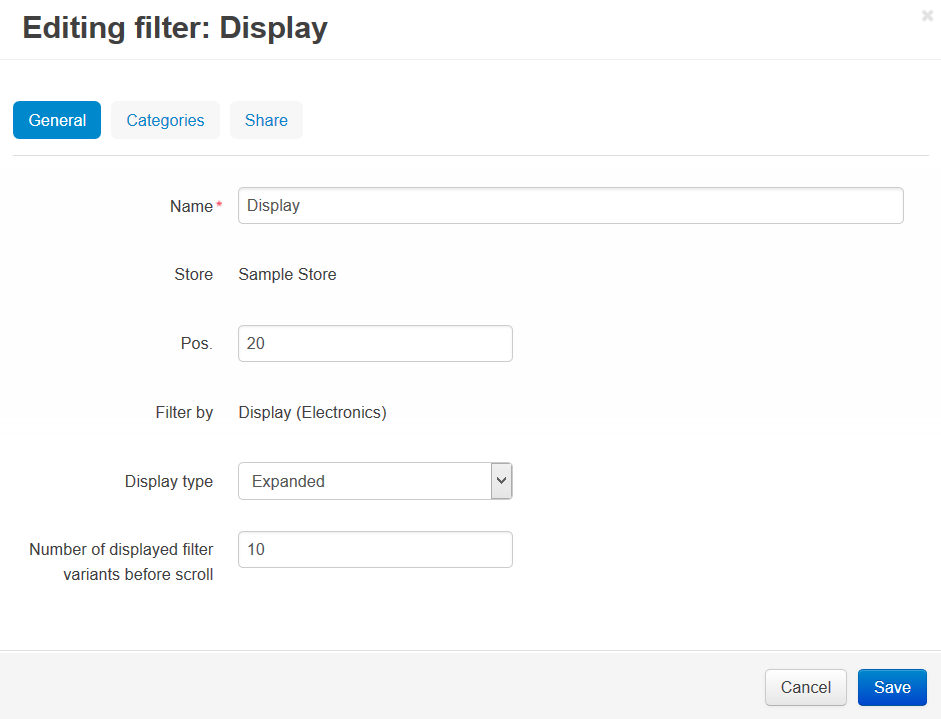
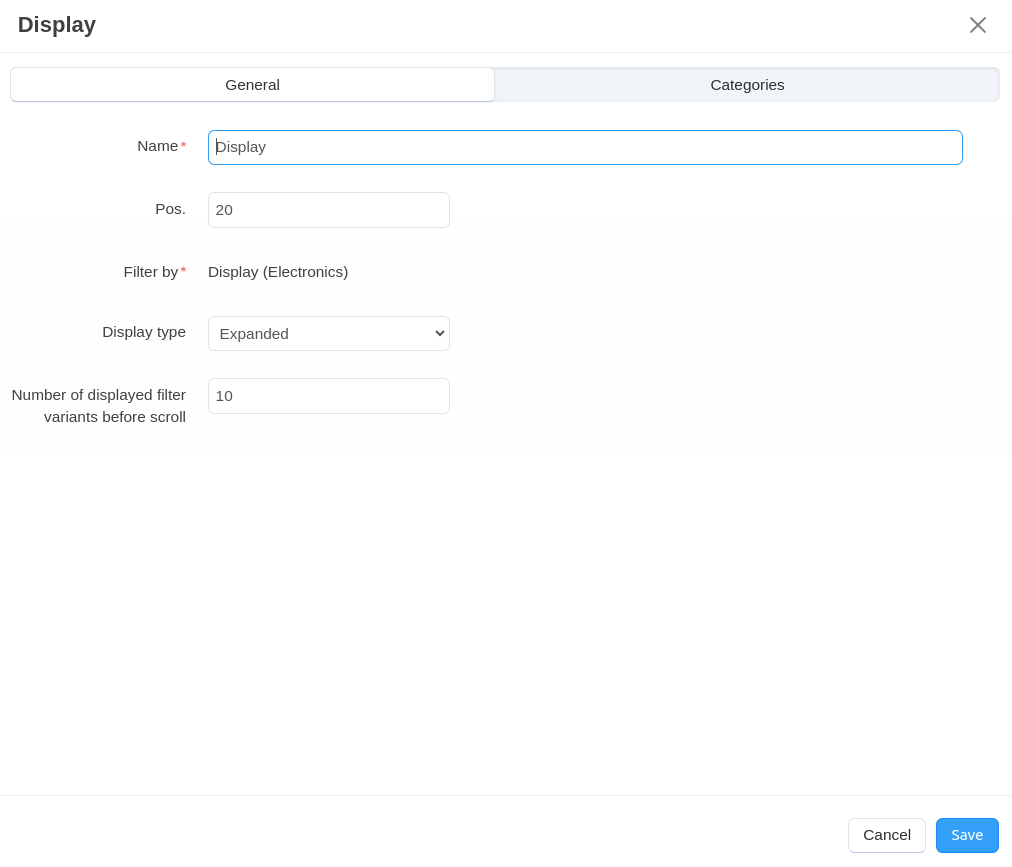
[~] Docs: Filters: Filter attributes article updated.

diff --git a/en/user_guide/manage_products/filters/filter_attributes.rst b/en/user_guide/manage_products/filters/filter_attributes.rst
@@ -43,8 +43,3 @@ A list of categories where the filter will be displayed. If no category is speci
 
     If a customer runs a search for a product on the storefront, all active filters that have appropriate products will be displayed, regardless of the category.
 
-=====
-Share
-=====
-
-Stores that share this product filter. Learn more about :doc:`sharing objects <../../stores/sharing>`.
